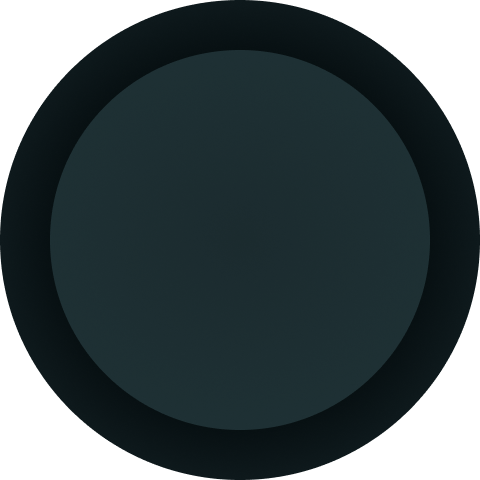
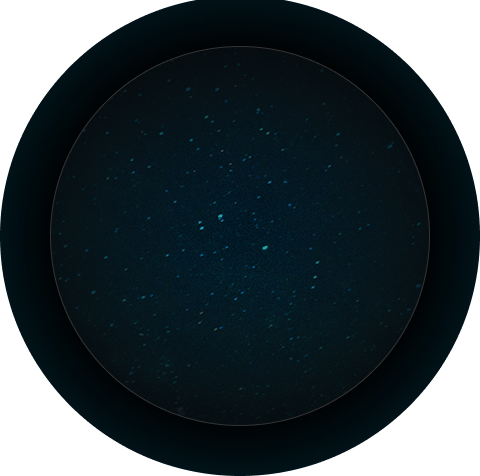
Theme based on odyssey

diff --git a/internal/app/AnalogClock.go b/internal/app/AnalogClock.go
@@ -40,10 +40,10 @@ type AnalogClock struct {
 	done chan bool
 }
 
-var hourColor = sdl.Color{R: 135, G: 135, B: 135, A: 255}
-var hourActiveColor = sdl.Color{R: 169, G: 98, B: 44, A: 255}
-var minuteColor = sdl.Color{R: 68, G: 83, B: 86, A: 255}
-var minuteActiveColor = sdl.Color{R: 164, G: 96, B: 45, A: 255}
+var hourColor = sdl.Color{R: 90, G: 90, B: 96, A: 255}
+var hourActiveColor = sdl.Color{R: 203, G: 222, B: 198, A: 255}
+var minuteColor = sdl.Color{R: 50, G: 50, B: 59, A: 255}
+var minuteActiveColor = sdl.Color{R: 8, G: 165, B: 218, A: 255}
 
 // NewAnalogClock creats a new time widget
 func NewAnalogClock(engine *ui.Engine) (*AnalogClock, error) {
@@ -58,12 +58,12 @@ func NewAnalogClock(engine *ui.Engine) (*AnalogClock, error) {
 	c.face.sprite.AnchorY = 0.5
 	engine.Append(c.face.sprite)
 
-	f, err := ttf.OpenFont(Asset("RobotoCondensed-Bold.ttf"), 50)
+	f, err := ttf.OpenFont(Asset("RobotoCondensed-Regular.ttf"), 54)
 	if err != nil {
 		return nil, err
 	}
 	c.hourFont = f
-	f, err = ttf.OpenFont(Asset("RobotoCondensed-Regular.ttf"), 34)
+	f, err = ttf.OpenFont(Asset("RobotoCondensed-Regular.ttf"), 36)
 	if err != nil {
 		return nil, err
 	}
@@ -97,7 +97,6 @@ func NewAnalogClock(engine *ui.Engine) (*AnalogClock, error) {
 	c.minuteHand.sprite = ui.NewSprite(c.minuteHand.image)
 	c.minuteHand.sprite.AnchorX = 0.5
 	c.minuteHand.sprite.AnchorY = 0.5
-	c.minuteHand.sprite.SetAlpha(220)
 	engine.Append(c.minuteHand.sprite)
 
 	// hour hand
@@ -109,7 +108,6 @@ func NewAnalogClock(engine *ui.Engine) (*AnalogClock, error) {
 	c.hourHand.sprite = ui.NewSprite(c.hourHand.image)
 	c.hourHand.sprite.AnchorX = 0.5
 	c.hourHand.sprite.AnchorY = 0.5
-	c.hourHand.sprite.SetAlpha(220)
 	engine.Append(c.hourHand.sprite)
 
 	c.MoveTo(screenWidth/2, screenHeight/2)
@@ -118,8 +116,8 @@ func NewAnalogClock(engine *ui.Engine) (*AnalogClock, error) {
 	return c, nil
 }
 
-const hourRadius = 158.0
-const minuteRadius = 217.0
+const hourRadius = 156.0
+const minuteRadius = 216.0
 
 // MoveTo allows moving the clock
 func (c *AnalogClock) MoveTo(x, y int32) {
@@ -182,7 +180,7 @@ func (c *AnalogClock) updateTime() error {
 	c.minutes[index].text.SetText(strconv.Itoa(minute))
 	c.minutes[previous].text.SetColor(minuteColor)
 	c.minutes[previous].text.SetText(strconv.Itoa(previous * 5))
-	angle := math.Pi * (float64(minute) / 30)
+	angle := 2 * math.Pi * ((float64(minute) / 60) + (float64(second) / 3600))
 	c.minutes[index].sprite.X = c.x + int32(math.Sin(angle)*minuteRadius)
 	c.minutes[index].sprite.Y = c.y + int32(math.Cos(angle)*-minuteRadius)
 
